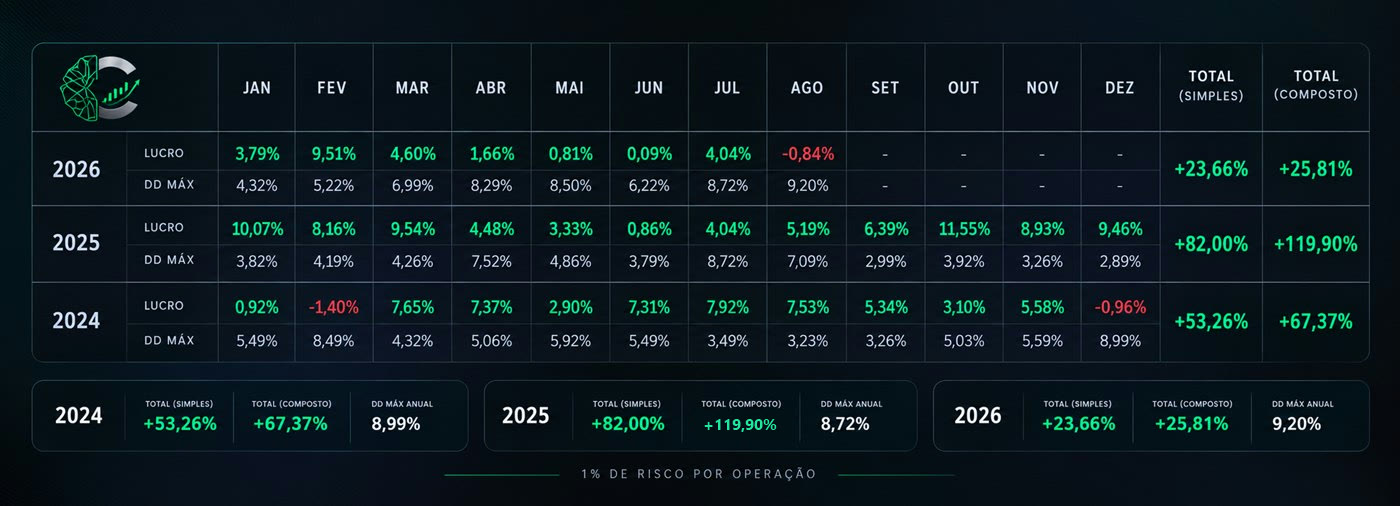
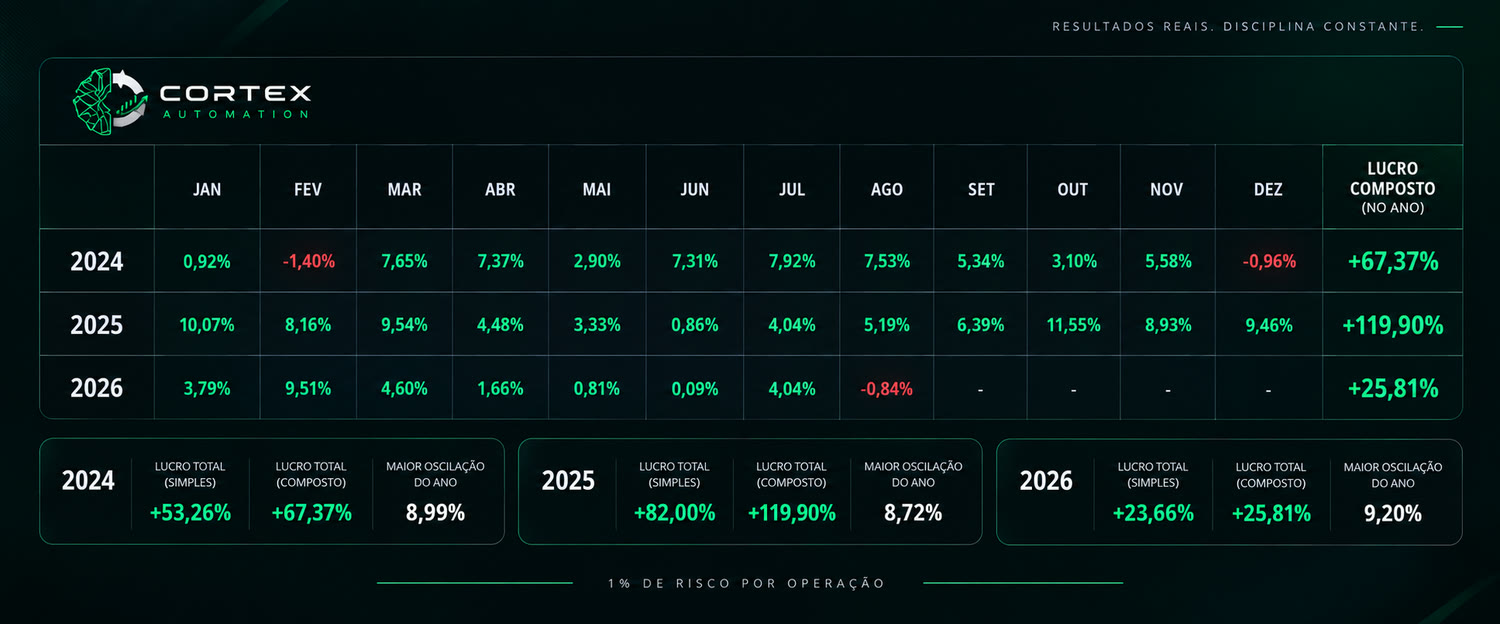
Tabela mensal nova: só lucro, sem a linha de drawdown
A imagem que estava mostrava LUCRO e DD MÁX de cada mês. Os drawdowns
mensais já tinham saído do resto da página pela mesma razão — lidos em fila
e a vermelho, passam por oito perdas em vez de uma medida de oscilação.

A tabela nova traz só o lucro de cada mês e o lucro composto do ano, com os
totais e a maior oscilação de cada ano nos cartões por baixo. A legenda usa
"maior oscilação do ano", a mesma expressão do resto do site.

Os 32 valores foram conferidos contra os dados autorizados:

  2024   +53,26% simples   +67,37% composto   8,99% de oscilação
  2025   +82,00% simples  +119,90% composto   8,72% de oscilação
  2026   +23,66% simples   +25,81% composto   9,20% de oscilação

No conjunto: +363,06% compostos em 32 meses, média mensal composta de
+4,91% e 29 meses positivos. Bate certo com a barra de prova do hero, com
o simulador e com o resumo da performance.

Em ecrãs estreitos a tabela passa a ter scroll horizontal próprio, com uma
dica a dizer que ele existe: com treze colunas espremidas em 350px não se
lia nada.

Claude-Session: https://claude.ai/code/session_01Qu5FP7iSaMChgcUvb7tJcp

diff --git a/index.html b/index.html
@@ -748,8 +748,12 @@
         <p class="small" style="margin-bottom:20px">Resultados mensais da conta real, com o total simples, o total composto e a maior oscila&ccedil;&atilde;o de cada ano.</p>
 
         <figure class="shot shot--table">
-          <img src="assets/tabela-mensal.jpg" width="1400" height="506" alt="Tabela de lucro e drawdown máximo mês a mês em 2024, 2025 e 2026, com totais compostos de +67,37%, +119,90% e +25,81%" loading="lazy" decoding="async">
+          <img src="assets/tabela-mensal.jpg" width="1500" height="624" alt="Tabela de lucro mensal da conta real em 2024, 2025 e 2026, com o lucro composto de cada ano (+67,37%, +119,90% e +25,81%) e, por baixo, o lucro total simples, o lucro total composto e a maior oscilação de cada ano" loading="lazy" decoding="async">
         </figure>
+        <p class="shot-hint" aria-hidden="true">
+          <svg width="13" height="13" viewBox="0 0 24 24" fill="none" stroke="currentColor" stroke-width="2" stroke-linecap="round" stroke-linejoin="round"><path d="M4 12h16M9 7l-5 5 5 5M15 7l5 5-5 5"/></svg>
+          Deslize para o lado para ver a tabela toda
+        </p>
 
         <h4 class="h4" style="margin:36px 0 6px">32 meses de hist&oacute;rico</h4>
         <p class="small" style="margin-bottom:20px">Juro composto, com 1% de risco por opera&ccedil;&atilde;o.</p>

diff --git a/css/style.css b/css/style.css
@@ -3453,3 +3453,34 @@ html.lenis { scroll-behavior: auto !important; }
 @media (prefers-reduced-motion: reduce) {
   .vsl__box.is-loading::after { animation-duration: 2.4s; }
 }
+
+/* ==========================================================================
+   Tabela mensal em ecrãs estreitos
+   A imagem tem 13 colunas: encolhida para 350px não se lê nada. Em vez de a
+   espremer, damos-lhe scroll horizontal próprio e avisamos que ele existe.
+   ========================================================================== */
+.shot-hint { display: none; }
+
+@media (max-width: 860px) {
+  .shot--table {
+    overflow-x: auto;
+    -webkit-overflow-scrolling: touch;
+    scrollbar-width: thin;
+    border-radius: 14px;
+  }
+  .shot--table img { min-width: 760px; }
+
+  .shot-hint {
+    display: flex;
+    align-items: center;
+    justify-content: center;
+    gap: 8px;
+    margin-top: 10px;
+    font-family: var(--mono);
+    font-size: .66rem;
+    letter-spacing: .07em;
+    text-transform: uppercase;
+    color: var(--fg-faint);
+  }
+  .shot-hint svg { flex: none; opacity: .75; }
+}
